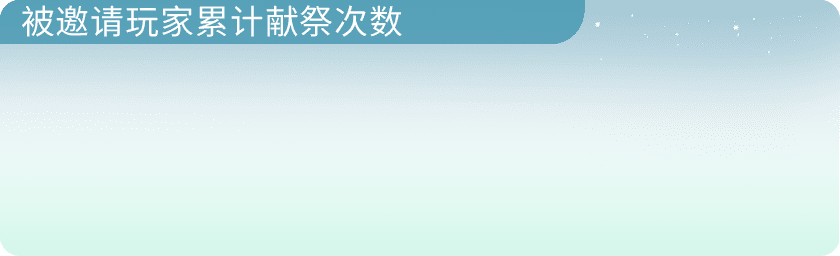
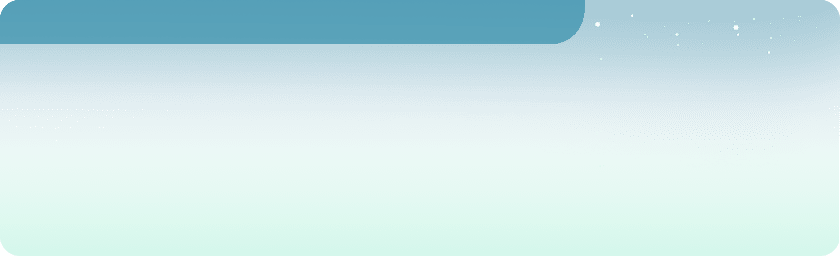
refs #67935 【活动中心】PC上线庆典活动新TAB风格迭代，活动1：共沐温暖 不期而遇标题渐入，内容标题改为css实现

Changed region(s): [[0.031, 0.0, 0.4952, 0.1562], [0.9905, 0.4062, 1.0, 0.4375]]

diff --git a/src/views/InvitationCode/InvitationCode.vue b/src/views/InvitationCode/InvitationCode.vue
@@ -4,7 +4,7 @@
       <div :class="['h-full w-full', { 'keyboard-show': isKeyboardShow }]">
         <Transition appear :name="headTransitionName" mode="out-in">
           <h1
-            class="title relative h-full overflow-hidden bg-contain bg-no-repeat"
+            class="title animate__animated animate__fadeIn relative h-full overflow-hidden bg-contain bg-no-repeat"
           >
             <div class="sr-only">
               共沐温暖 不期而遇
@@ -25,10 +25,14 @@
               class="absolute bottom-0 right-[140px] top-0 m-auto flex flex-col justify-center gap-y-[24px]"
             >
               <!-- 邀请人数 -->
-              <h2 class="sr-only">邀请人数</h2>
               <div
                 class="reward-top animate__animated animate__fadeIn relative flex"
               >
+                <h2
+                  class="absolute left-[20px] top-[-1px] text-[34px] text-white"
+                >
+                  邀请人数
+                </h2>
                 <ul
                   class="absolute left-[40px] top-[56px] flex w-[500px] justify-between"
                 >
@@ -72,10 +76,14 @@
                 </div>
               </div>
               <!-- 被邀请玩家累计收集光之翼数量 -->
-              <h2 class="sr-only">被邀请玩家累计收集光之翼数量</h2>
               <div
                 class="reward-middle animate__animated animate__fadeIn relative flex"
               >
+                <h2
+                  class="absolute left-[20px] top-[-1px] text-[34px] text-white"
+                >
+                  被邀请玩家累计收集光之翼数量
+                </h2>
                 <ul
                   class="absolute left-[40px] top-[56px] flex w-[760px] justify-between"
                 >
@@ -115,10 +123,14 @@
                 </div>
               </div>
               <!-- 被邀请玩家累计献祭次数 -->
-              <h2 class="sr-only">被邀请玩家累计献祭次数</h2>
               <div
                 class="reward-bottom animate__animated animate__fadeIn relative flex"
               >
+                <h2
+                  class="absolute left-[20px] top-[-1px] text-[34px] text-white"
+                >
+                  被邀请玩家累计献祭次数
+                </h2>
                 <ul
                   class="absolute left-[40px] top-[56px] flex w-[760px] justify-between"
                 >
